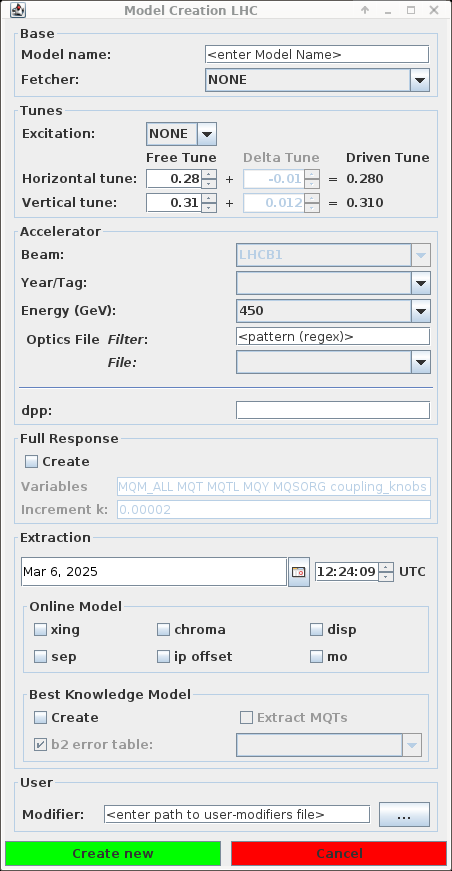
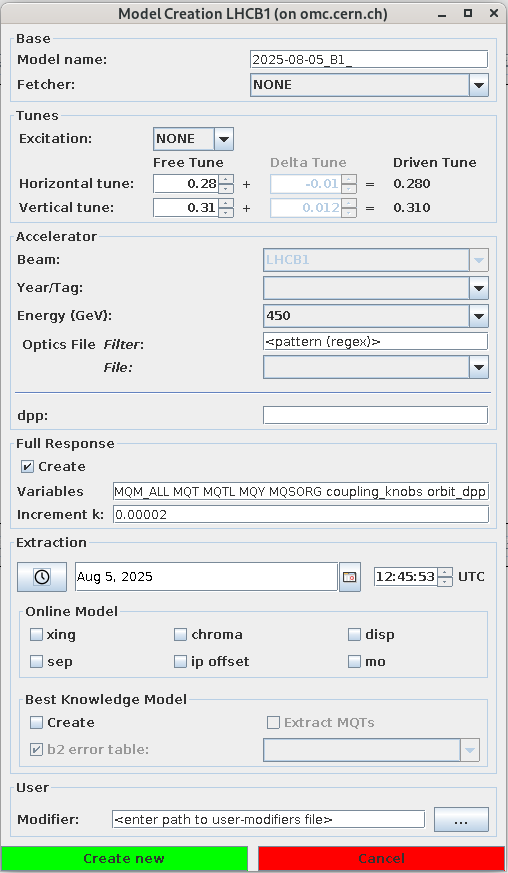
lhc model creation

Changed region(s): [[0.0, 0.0, 1.0, 1.0]]

diff --git a/docs/css/custom_colors.css b/docs/css/custom_colors.css
@@ -49,3 +49,15 @@
   color: black !important;
   box-shadow: 0 .1rem 0 .05rem var(--md-typeset-kbd-border-color),0 .1rem 0 var(--md-typeset-kbd-border-color),0 -.1rem .2rem rgb(202, 142, 124) inset;;
 }
+
+.yellow-gui-button kbd {
+  background-color: rgb(255, 201, 0) !important;
+  color: black !important;
+  box-shadow: 0 .1rem 0 .05rem var(--md-typeset-kbd-border-color),0 .1rem 0 var(--md-typeset-kbd-border-color),0 -.1rem .2rem rgb(202, 177, 124) inset;;
+}
+
+.blue-gui-button kbd {
+  background-color: rgb(0, 0, 255) !important;
+  color: rgb(250, 247, 247) !important;
+  box-shadow: 0 .1rem 0 .05rem var(--md-typeset-kbd-border-color),0 .1rem 0 var(--md-typeset-kbd-border-color),0 -.1rem .2rem rgb(124, 125, 202) inset;;
+}

diff --git a/docs/guis/betabeat/model_creation.md b/docs/guis/betabeat/model_creation.md
@@ -1,11 +1,30 @@
 # Model Creation
 
+## Model Selection Window
+
+The _model selection window_ **opens automatically** after starting the main GUI frame from the [beam selection window](beam_selection.md).
+This window can be opened at any time by clicking the **left-most button at the top** of the GUI, depicting a "model".
+
+<figure>
+  <center>
+  <img src="../../assets/images/betabeat_gui/top_buttons.png" width="100%" alt="Icons at the top of the GUI." />
+  <figcaption>Open the model creation window with the left-most button at the top, depicting a model.</figcaption>
+  </center>
+</figure>
+
+
+If there have been no models previously created, the window will look empty like this:
+
 <figure>
   <center>
   <img src="../../assets/images/betabeat_gui/model_creation_window.png" width="100%" alt="Model selection window." />
-  <figcaption>Model selection window.</figcaption>
+  <figcaption>Blank Model selection window.</figcaption>
   </center>
 </figure>
+
+
+After [creating a model](#model-creation-window), the window will show the **folder names** in the _Models_ folder of the
+accelerator sub-folder selected in the [beam selection window](beam_selection.md).
 
 <figure>
   <center>
@@ -14,9 +33,211 @@
   </center>
 </figure>
 
+
+The buttons at the bottom of the window are:
+
+- ++"Create New"++ :
+Opens the [model creation window](#model-creation-window) for a new model.
+- ++"Load"++{.green-gui-button} _(If a model exists and is selected)_:
+Sets the currently chosen model as "selected model" in the GUI and closes this window.<br>
+:fontawesome-solid-triangle-exclamation:{.warning-colored} This first checks if certain files are present in the model folder; e.g. if the model is still under creation (check the [running tasks](common_components.md#running-tasks)), it will show an error in the [status bar](common_components.md#console).
+- ++"Delete"++{.red-gui-button} _(If a model is selected)_:
+Deletes the selected model folder **from disk** :fontawesome-solid-triangle-exclamation:{.warning-colored}.
+- ++"Import External"++{.yellow-gui-button} :
+Opens a file-dialog
+to select a folder with a previously created model at a location outside the current accelerator's _Models_ folder and copies it there.
+- ++"Update MQTs"++{.blue-gui-button} _(If a model is selected)_:
+Updates the values of the MQTs (which are saved in a separate file) in the currently selected model via extraction from `NXCals`.
+
+## Model Creation Window
+
+After clicking on ++"Create New"++ in the [model selection window](#model-selection-window), _model creation window_ opens.
+
+Currently model creation is only implemented in the GUI for the [LHC](#lhc-model-creation) and the [SPS](#sps-model-creation) accelerators.
+
+They are using **unified window components**, which follow a common structure, described here, and differ in the accelerator specific details, which are explained in the sections below.
+
+#### Base
+
+- **Model Name**:
+The name of the model, which will be used to name the folder for the model.
+To easily identify a model later on, this should tell the user at a glance **everything important** about the model, e.g. for which **accelerator** the model was created, which optics where used, which **tunes** were set (if particular), if the excitation was special, if **best knowledge** was also created, etc.
+Nowadays, the name comes already with a date as prefix-suggestion.
+
+- **Fetcher**:
+Which fetcher should be used to get the optics data from [`acc-models`][acc-models] and populate choices in the _Accelerator_ section of this window.
+The choices are **AFS**, which uses the default `acc-models` path on `afs`, and **Path**, which allows you to set a custom path
+to a local `acc-models` folder.
+After selecting the fetcher, a python process is running in the background which fetches the data.
+
+!!! warning "First time running Fetcher"
+    If this is your first run with this fetcher, **it might take a while to complete** (up to a few minutes). Afterwards, the data is cached and the GUI is updated more quickly.
+
+!!! warning "Fetcher `NONE` not implemented"
+    In the current GUI implementation, a fetcher/`acc-models` is needed to create a model (see [#202][bbgui_issue_202])!
+
+#### Tunes
+
+This section allows you to define the tunes for the model, including the tunes of the exciter element if applicable.
+
+- **Excitation**:
+Choose which exciter was used in the generation of the turn-by-turn data or **`NONE`** if a free-kick was performed.
+- **Free Tune**:
+The natural tune of the machine, without any driven excitation.
+- **Delta Tune** _(Only active if an excication was selected)_:
+The tune delta between the _free tune_ and the _driven tune_, using the same convention as in the [multiturn GUI][multiturn], i.e. the difference from the _free tune_ to the _driven tune_ (in contrast to the [tune settigs](settings.md#tunes-tab) in which the _driven tune_ is the starting point).
+- **Driven Tune**:
+This is the tune of the beam during the excitation and is **automatically computed** from the _free tune_ and the _delta tune_.
+
+#### Full Response
+
+This section allows you to activate and define the creation of the full response matrices.
+See _[Dilly et al. - An updated global optics correction scheme][dilly2018]_ and the [`omc3` documentation][global_correction_omc3] for details.
+
+- **Create**:
+Activates the creation of the full response matrices.
+- **Variables**:
+The variables which are changed to calculate a response of the optics.
+The names given here can be the MAD-X circuit names directly, or the group names as defined for the accelerator in `omc3`,
+i.e. this follows the same logic as the [variables used for global correction](correction_panel.md).
+- **Increment K**:
+The value by which each variable will be changed to check the response.
+_(Note: The circuits often steer a K-value, hence the name. But should be renamed to simply "Increment" in the future)_
+
+!!! tip "Use larger variable groups"
+    If you do not create a response for a given variable, you will not be able to use it later on in the correction.
+    Hence, you probably want to use larger groups here, to have a wider range of choice for variables later.
+
+!!! note "FullResponse Task"
+    The full-response creation will only start after the model is fully created and you have closed the popup-window
+    asking you to load the model or not (see below).
+    By that time you can **already use the model** as if it was fully created and you **do not need to wait for this taks to finish** for the _standard_ analysis, until you want to calculate [global corrections](correction_panel.md).<br>
+    The full-response creation is also heavily parallelized where possible, so expect a few processes to run at the same time.
+
+#### User
+
+- **Modifier**:
+Path to a MAD-X file, which will be called in MAD-X **after** the above selected optics are applied.
+This can be used to install your own optics modifications.
+
+!!! info "Modifiers in `omc3`"
+    Any modification to the accelerator sequence in called a "Modifier" in the [model creation in `omc3`][model_creation_omc3]
+    and are given as a list to the model creator.
+    The option here simply appends another entry to this list, which already contains the path to the above selected optics file and possibly the `knobs.madx`, if the online-model was used (see below).
+    If you need to call multiple files, you need to create add the `call, file=...` MAD-X commands into the file you are calling here.
+    When the model is later built, e.g. for the [global correction checks][global_correction_check], these modifiers
+    will be identified from tags in the `job.nominal.madx` file.
+
+!!! warning "`modifiers.madx`"
+    In the past, the modifiers were given as a separate `modifiers.madx` in the model folder.
+    Due to backwards compatibility, the `modifiers.madx` file is still somewhat supported, but not encouraged.
+    So **giving here a file called `modifiers.madx` within the model folder might lead to unexpected behavior**.
+
+#### Create
+
+Clicking on the ++"Create New"++{.green-gui-button} button will start the model creation.
+If any [extraction](#extraction) is selected, these tasks will run first and they can take a few minutes.
+
+
+!!! warning "Loading a new Model"
+    When the model creation is finished (but before the full-response creation), a popup will ask you if you want to load the model or not.
+    Before you see this window, it is not possible to click on the ++"Load"++{.green-gui-button} button in the [model selection window](#model-selection-window), even though its name is already appearing in the list, because the model is not yet fully created.
+
+### LHC Model Creation
+
 <figure>
   <center>
-  <img src="../../assets/images/betabeat_gui/model_creation_lhc.png" width="100%" alt="Model creation window for the LHC." />
+  <img src="../../assets/images/betabeat_gui/model_creation_lhc.png" width="500px" alt="Model creation window for LHC Beam1." />
   <figcaption>Model creation window for the LHC.</figcaption>
   </center>
 </figure>
+
+#### Tunes
+
+For the LHC the tunes are set by default to `0.28 - 0.01` in horizontal and `0.31 + 0.012` in vertical,
+which are our default tunes for LHC measurements.
+
+#### Accelerator
+
+- **Beam**:
+The beam is pre-defined by the accelerator choosen in the [beam selection window](beam_selection.md).
+- **Year/Tag**:
+This field is automatically filled by the frist layer of subfolders in the `acc-models/lhc` repository.
+- **Energy**:
+The energy at which the accelerator is running in GeV.
+- **Optics File**:
+The optics used for the model, which has the same name as the one used in the machine.
+The **File** dropdown is automatically filled by the files in the `operation/optics` folder within the choosen _year/tag_
+of the `acc-models/lhc` repository.
+You can search through the list via regular expression in the **Filter** field.
+- **dpp**: The momentum deviation for the model.
+
+#### Extraction
+
+This section allows you to extract the actual settings from the LHC via NXCals
+at the given time UTC at the top if the section.
+Use the :fontawesome-regular-clock:-button to set it to the now.
+
+We distinguish here between two different cases:
+
+- **Online Model**:
+The online model settings are applied to the **nominal model**, which is used almost everywhere throughout the analysis.
+There will be no model created without these settings!
+You can choose which settings you want to extract, and if any of these are activated, a `knobs.madx` file will be created, which contains the extracted settings mapped to the respective MAD-X variables.
+    - **xing**: Crossing angles
+    - **sep**: Beam separation
+    - **chroma**: Chromaticity values
+    - **ip offset**: Beam offsets at the IPs
+    - **disp**: Dispersion values
+    - **mo**: Powering of the landau octupoles (MOs)
+- **Best Knowledge Model**:
+The best knowledge model is created with the same settings as the **nominal model**,
+i.e. all extracted knobs from the _online model_ are also applied.
+In addition, this model contains also the $b_2$ errors of the main dipoles from the [magnetic model][fidel_webpage].
+This will result in additional `*_best_knowledge.dat` twiss-output files, which are used in the N-BPM method of the beta-from-phase analysis (see _[Langner et al. - Utilizing the N beam position monitor method for turn-by-turn optics measurements][langner2016]_).
+    - **$b_2$ error table**:
+      As these errors are dependend on the powering of the dipoles, you need to choose the table with the closest energy to the one you are creating the model for.
+    - **:fontawesome-solid-triangle-exclamation:{.warning-colored} Extract MQTs**:
+      As the $b_2$ errors change the tunes, you should **always also extract the MQTs** when creating the best knowledge model.
+
+!!! warning "Java Issues and RBAC token"
+    Due to Java misconfiguration in the CCC terminals there can be access-issues with the _online model extraction_,
+    additional steps might need to be taken **before starting the GUI**.
+    For now, follow the [note in the instructions of the OMC logbook][logbook_workaround_java],
+    make sure to have a valid KEBEROS token (via `kinit`) and - for good luck - also create a valid
+    RBAC token via the button at the top of the GUI:
+
+    <figure>
+      <center>
+      <img src="../../assets/images/betabeat_gui/rbac.png" alt="RBAC GUI elements" width="50%"/>
+      <figcaption>RBAC GUI-Element (No Token).</figcaption>
+      </center>
+    </figure>
+
+
+
+
+
+### SPS Model Creation
+
+<figure>
+  <center>
+  <img src="../../assets/images/betabeat_gui/model_creation_sps.png" width="500px" alt="Model creation window for the SPS." />
+  <figcaption>Model creation window for the SPS.</figcaption>
+  </center>
+</figure>
+
+
+[bbgui_issue_202]: https://gitlab.cern.ch/acc-co/lhc/lhc-app-beta-beating/-/issues/202
+[acc-models]: https://acc-models.web.cern.ch/acc-models/
+[multiturn]: ../multiturn/gui.md
+[dilly2018]: http://cds.cern.ch/record/2632945
+[model_creation_omc3]: https://pylhc.github.io/omc3/entrypoints/other.html#model-creator
+[global_correction_omc3]: https://pylhc.github.io/omc3/entrypoints/correction.html#global-correction
+[fidel_webpage]: https://lhc-div-mms.web.cern.ch/tests/MAG/Fidel/
+[langner2016]: https://link.aps.org/doi/10.1103/PhysRevAccelBeams.19.092803
+[logbook_workaround_java]: https://logbook.cern.ch/elogbook-server/#/logbook/showInstructionInLogbook/30291
+
+*[CCC]: Cern Control Center
+*[MQTs]: Tuning Trim Quadrupole Magnets of the LHC
+*[RBAC]: Role Based Access Control
